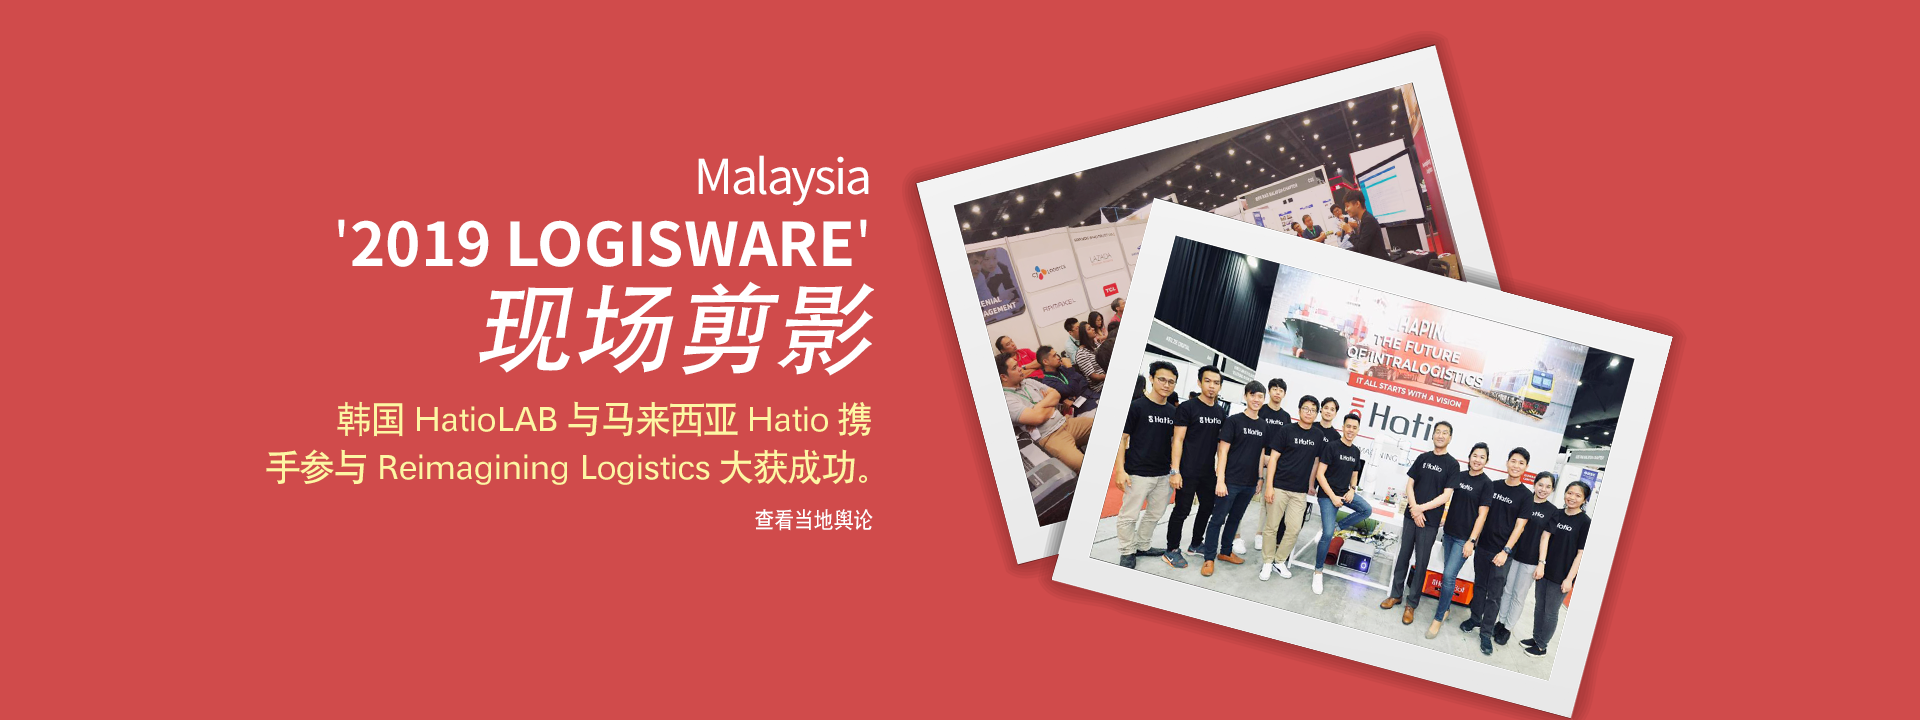
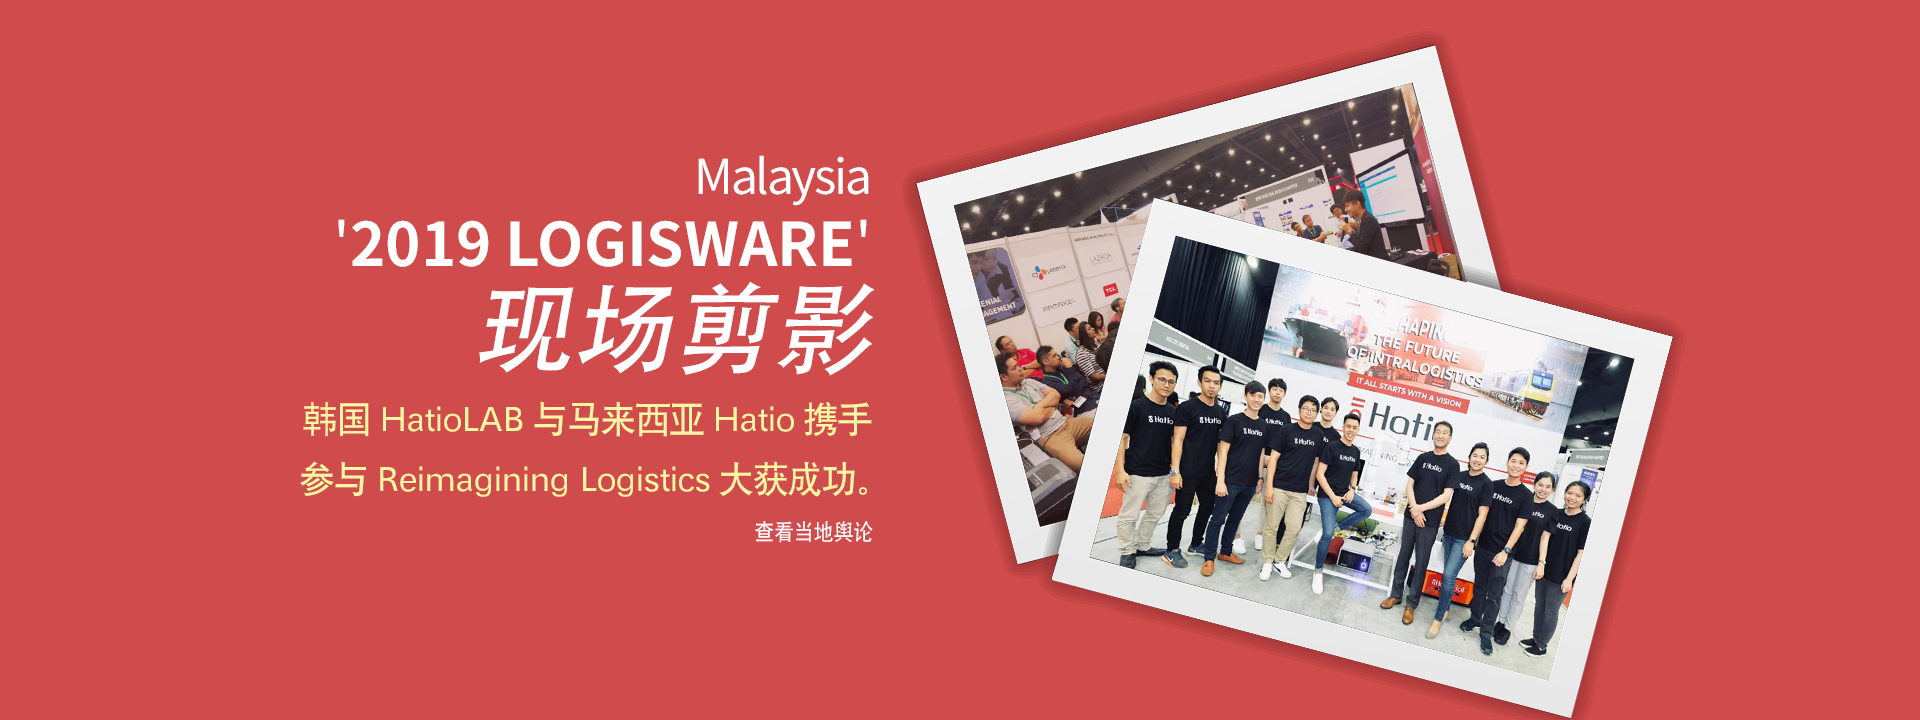
design fix

Changed region(s): [[0.125, 0.55, 0.4688, 0.7639]]

diff --git a/index_cn.html b/index_cn.html
@@ -117,10 +117,13 @@
 					<li class="revolution-mch-1" data-transition="fade" data-slotamount="5" data-masterspeed="1000" data-title="Slide 1">
 							<!-- MAIN IMAGE -->
 							<img src="assets/img/news201908_cn.png"  alt="darkblurbg"  data-bgfit="cover" data-bgposition="center center" data-bgrepeat="no-repeat">
-	
+							<span class="redbg">
+									<a href="https://www.youtube.com/watch?v=9yefUFdg6bE&feature=youtu.be" target="_blank" class="redbg">- TV3 News(Youtube)</a>
+									<a href="https://www.pressreader.com/" target="_blank" class="redbg">- Pressreader(mobile news)</a>
+							</span>
 								
 						<!-- LAYER -->
-						<div class="tp-caption sft redbg"
+						<!-- <div class="tp-caption sft redbg"
 						data-x="right"
 						data-hoffset="0"
 						data-y="415"
@@ -133,7 +136,7 @@
 						style="z-index: 6">
 						<a href="https://www.youtube.com/watch?v=9yefUFdg6bE&feature=youtu.be" target="_blank" class="redbg">- TV3 News(Youtube)</a>
 						<a href="https://www.pressreader.com/" target="_blank" class="redbg">- Pressreader(mobile news)</a>
-					</div>
+					</div> -->
 				</li>
 				<!-- news END SLIDE -->
 

diff --git a/index_en.html b/index_en.html
@@ -117,10 +117,13 @@
 					<li class="revolution-mch-1" data-transition="fade" data-slotamount="5" data-masterspeed="1000" data-title="Slide 1">
 							<!-- MAIN IMAGE -->
 							<img src="assets/img/news201908_en.png"  alt="darkblurbg"  data-bgfit="cover" data-bgposition="center center" data-bgrepeat="no-repeat">
-	
+							<span class="redbg">
+									<a href="https://www.youtube.com/watch?v=9yefUFdg6bE&feature=youtu.be" target="_blank" class="redbg">- TV3 News(Youtube)</a>
+									<a href="https://www.pressreader.com/" target="_blank" class="redbg">- Pressreader(mobile news)</a>
+							</span>
 								
 						<!-- LAYER -->
-						<div class="tp-caption sft redbg"
+						<!-- <div class="tp-caption sft redbg"
 						data-x="right"
 						data-hoffset="0"
 						data-y="415"
@@ -133,7 +136,7 @@
 						style="z-index: 6">
 						<a href="https://www.youtube.com/watch?v=9yefUFdg6bE&feature=youtu.be" target="_blank" class="redbg">- TV3 News(Youtube)</a>
 						<a href="https://www.pressreader.com/" target="_blank" class="redbg">- Pressreader(mobile news)</a>
-					</div>
+					</div> -->
 				</li>
 				<!-- news END SLIDE -->
 
